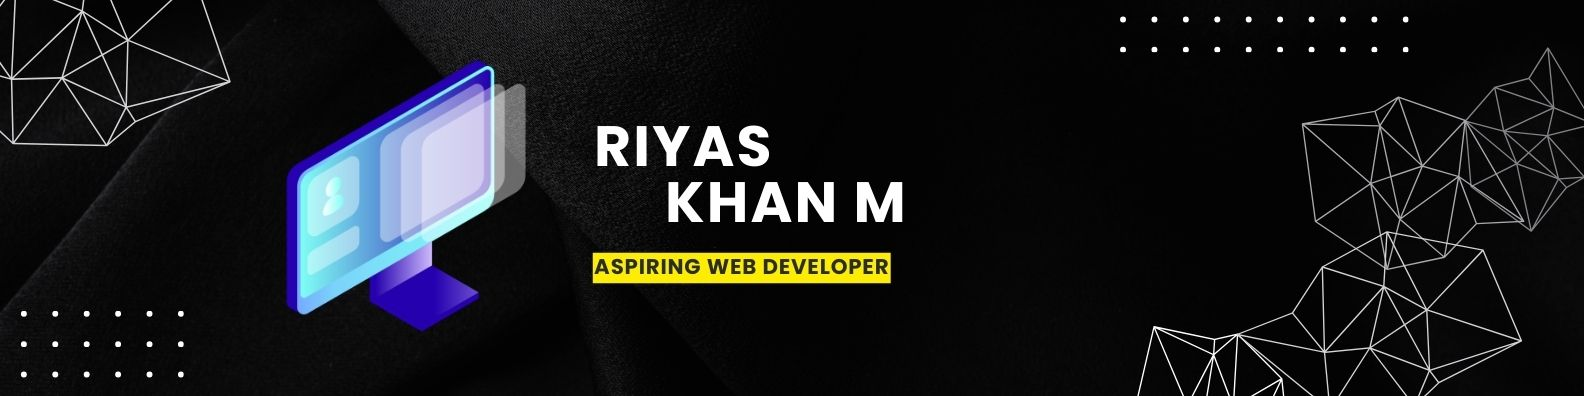
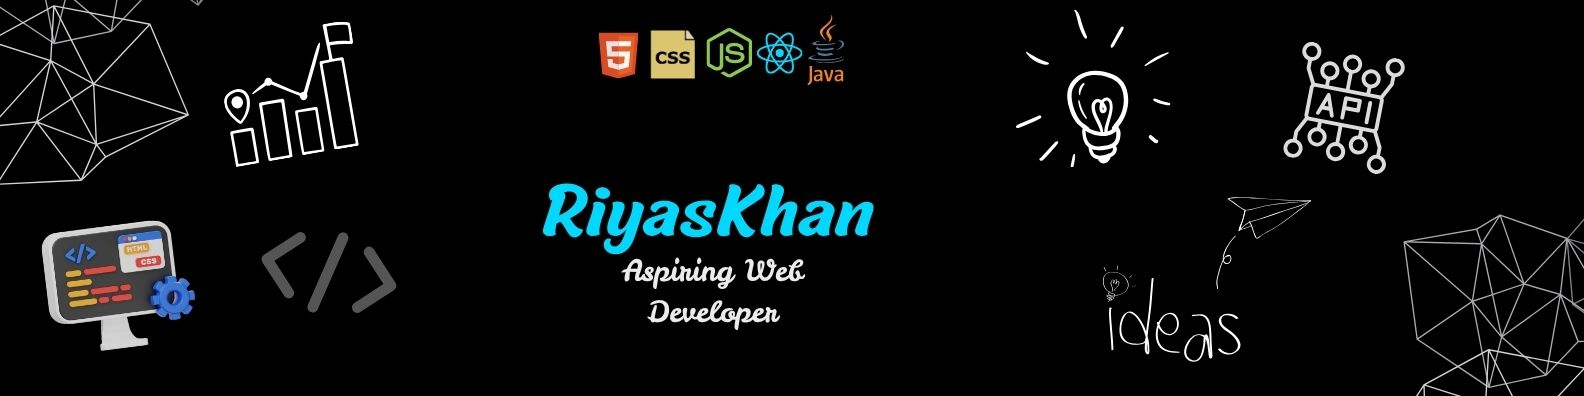
Fix build issue

diff --git a/src/Component/Contact.js b/src/Component/Contact.js
@@ -10,7 +10,7 @@ function Portfolio() {
       
       {/* Contact */}
       <section className=" fixedbackground2 text-center" >
-        <h2 id='contact'className="mb-3 text-white" >Contact Me</h2>
+        <h2 id='contact'className="mb-3 text-primary" >Contact Me</h2>
         <h5 className="text-white">
           <i className="bi bi-envelope-fill fs-3"></i>{" "}
           <a href="mailto:riyaskhanm2001@gmail.com"
@@ -30,7 +30,7 @@ function Portfolio() {
             href="https://github.com/riyas0786"
             target="_blank"
             rel="noopener noreferrer"
-            className="btn btn-dark fs-6 me-2"
+            className="btn btn-dark  me-2"
           >
             <i className="bi bi-github"></i> GitHub
           </a>
@@ -39,17 +39,15 @@ function Portfolio() {
             href="https://www.linkedin.com/in/riyas-khan-3b6939370"
             target="_blank"
             rel="noopener noreferrer"
-            className="btn btn-primary fs-6 text-white me-2"
+            className="btn btn-primary  text-white me-2"
           >
             <i className="bi bi-linkedin"></i> LinkedIn
           </a>
 
-          <a href="/RiyasKhanCV.pdf" download className="btn btn-success fs-6">
+          <a href="/RiyasKhanCV.pdf" download className="btn btn-success my-2 me-2">
             <i className="bi bi-download"></i> Download CV
           </a>
         </div>
-        <h6 className="text-center text-white ">
-        ©  Riyas Khan. All rights reserved.</h6>
       </section>
 
     </div>

diff --git a/src/Component/Header.js b/src/Component/Header.js
@@ -1,20 +1,17 @@
 import React from "react";
-
+import bannerimg from '../Assets/bannerimg.jpg'
 function Header() {
   return (
     <>
-      <section className="fixedbackground d-flex flex-column justify-content-between">
-        {/* Hero Section */}
-        <header className="d-flex flex-column justify-content-center align-items-center text-center flex-grow-1">
-          <h1 className="text-white bg-primary px-4 py-2 rounded opacity-75">
-            RIYAS KHAN M
-          </h1>
-          <h5 className="text-white mt-3">Aspiring Web Developer</h5>
-        </header>
+      <section className=" d-flex flex-column justify-content-between">
+
 
         {/* Navbar */}
         <nav className="navbar bg-light shadow-sm py-2">
-          <div className="container">
+          <div className="container-fluid">
+                    <img src={bannerimg}className="img-fluid w-100" alt="banner"
+              style={{ maxHeight: "350px", objectFit: "cover" }}
+            />
             <ul className="nav mx-auto gap-3">
               <li className="nav-item">
                 <a

diff --git a/src/index.css b/src/index.css
@@ -1,16 +1,10 @@
 /* Portfolio.css - Minimal Flat Version */
 
 /* Page background */
-.fixedbackground{
-  background-image: url('..//src/Assets/bannerimg.png');
-      min-height: 60vh;
-  background-attachment: scroll;
-  display: flex;
-  flex-direction: column;
-}
+
 
     .fixedbackground2{
-     background-image: url('..//src/Assets/footer\ img.png');
+     background-image: url('..//src/Assets/footerimg.png');
      background-position: center;
     background-repeat: no-repeat;
     background-attachment: scroll;
@@ -71,7 +65,7 @@
 /* Skills */
 #skills {
   padding: 40px 20px;
-  background: #000000e3;
+  background: #000000;
   margin-bottom: 20px;
 }
 
@@ -79,7 +73,7 @@
 /* Projectsyyyyy */
 #projects {
   padding: 40px 20px;
-  background: #fafafa;
+  background: #f8f8f8;
 }
 
 /* Footer */

diff --git a/src/Component/About.js b/src/Component/About.js
@@ -4,9 +4,9 @@ function About() {
   return (
     <>
       {/* About */}
-      <section id="about" className="container rounded text-center  " >
-        <h2 className="section-heading text-white">About Me</h2>
-        <h4 className="text-white text-start">
+      <section id="about" className="container bg-light rounded text-center  " >
+        <h2 className="section-heading text-black">About Me</h2>
+        <h4 className="text-black text-start">
           I build scalable and user-friendly web applications with modern
           technologies, ensuring both frontend and backend excellence. My focus
           is on writing clean, efficient code and delivering solutions that

diff --git a/src/Component/Project.js b/src/Component/Project.js
@@ -11,14 +11,14 @@ function Project() {
   return (
     <>
       {/* Projects */}
-      <section id="projects" className="container-fluid my-5">
+      <section id="projects" className="container-fluid my-5 bg-white">
         <h2 className="text-center mb-5 fw-bold section-heading mx-auto bg-white w-25 text-warning">
           PROJECTS
         </h2>
 
         <div className="row justify-content-center">
         <motion.div
-  className="col-12 rounded shadow w-75 fs-3 p-3"
+  className="col-12 rounded shadow bg-light w-75 fs-3 p-3"
   initial={{ opacity: 0, y: 50 }}
   whileInView={{ opacity: 1, y: 0 }}
   transition={{ duration: 0.6 }}
